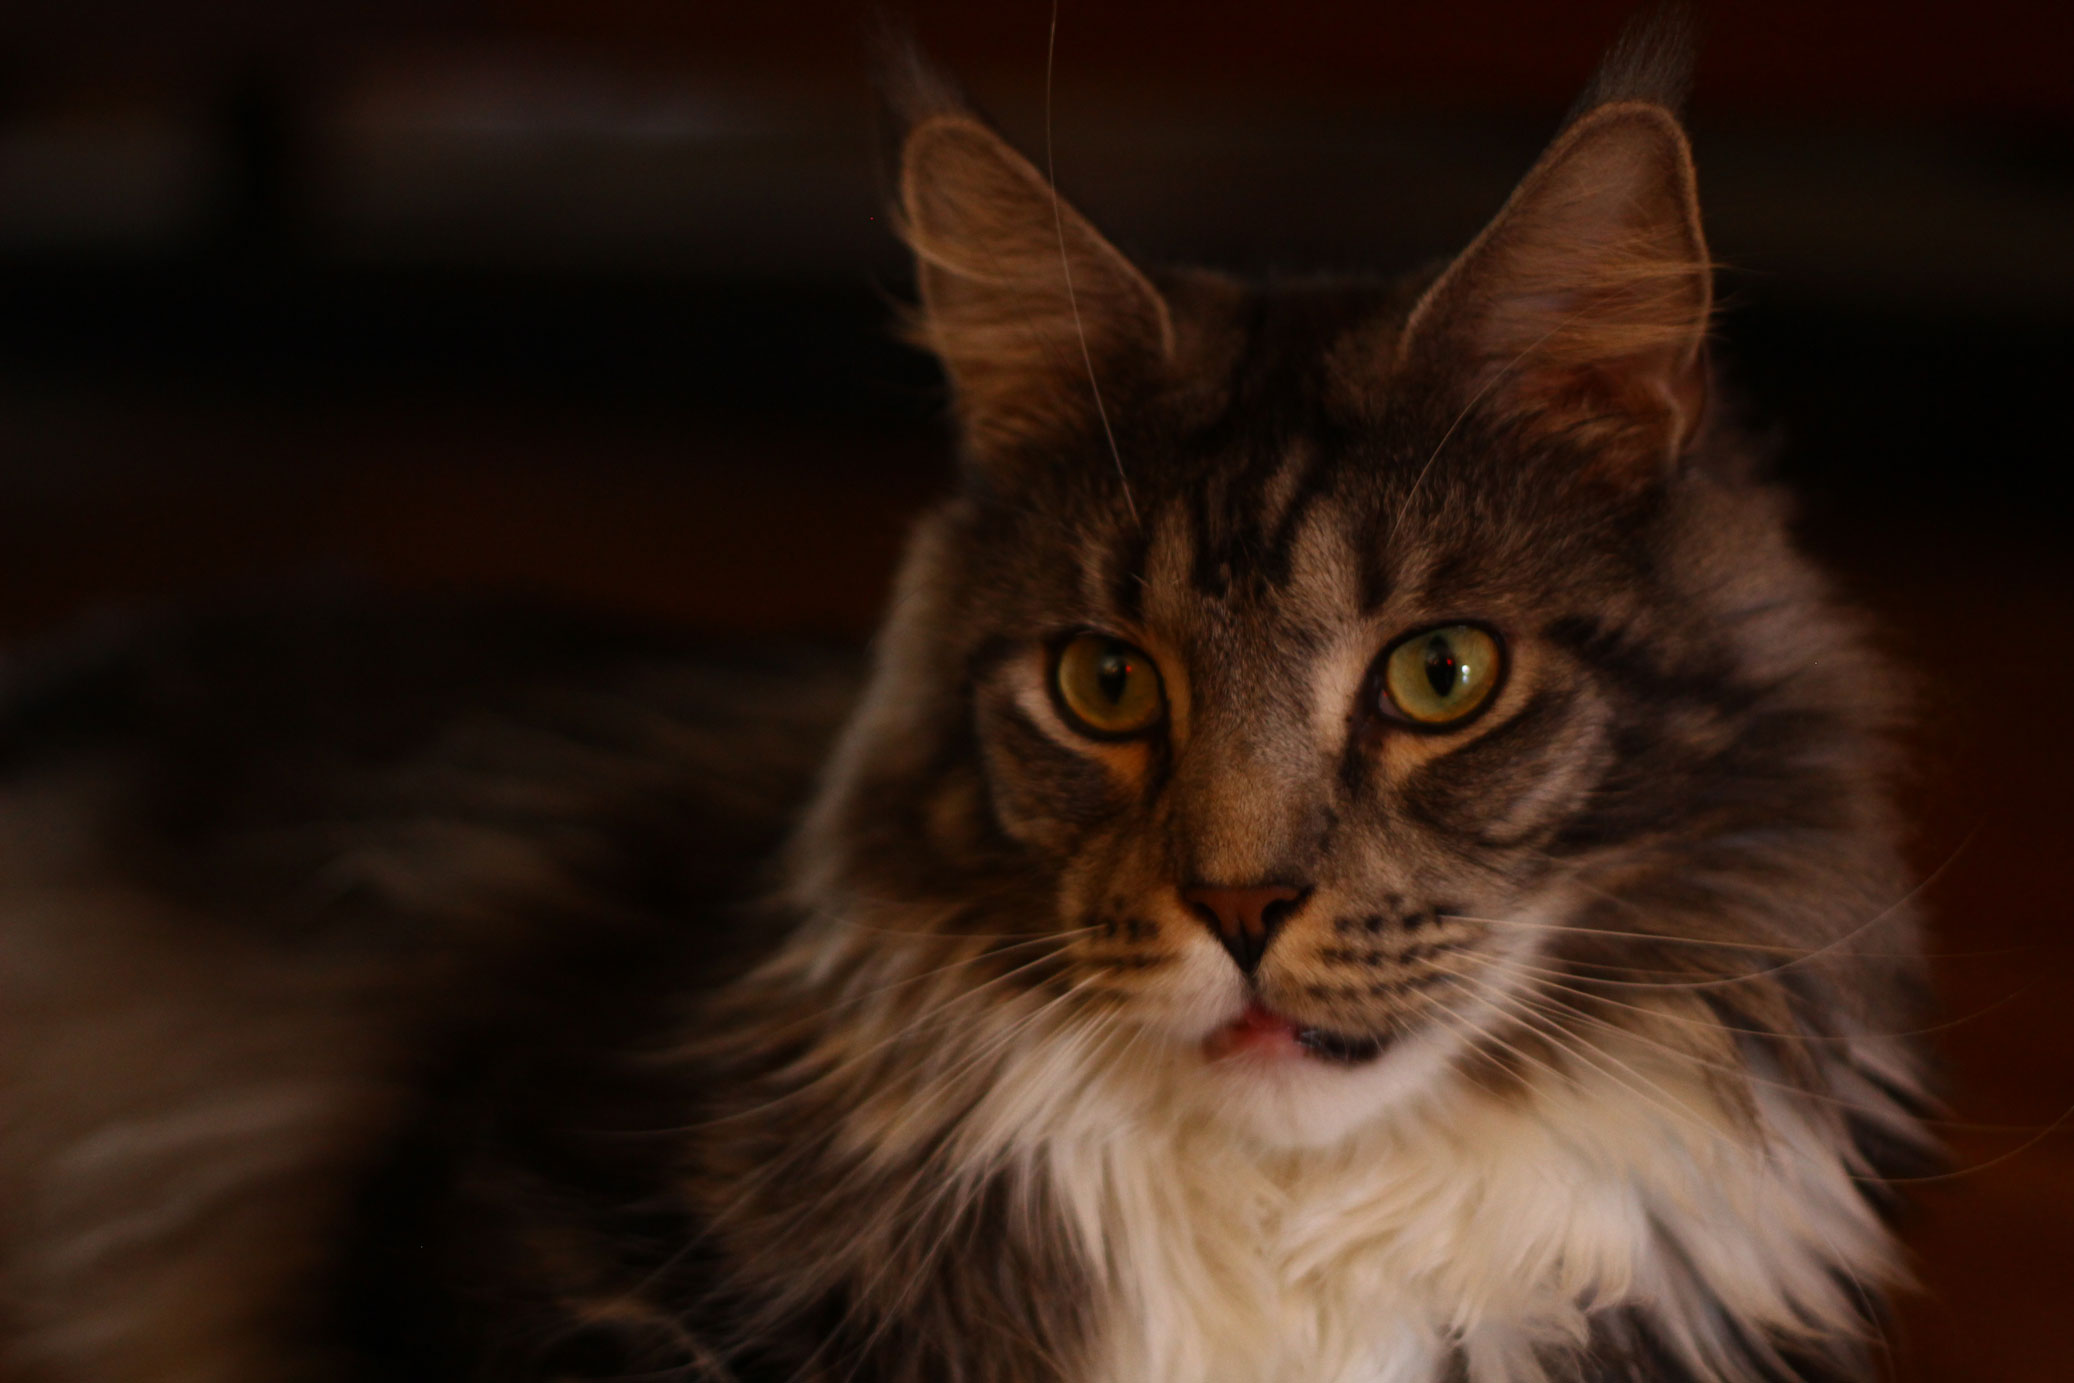
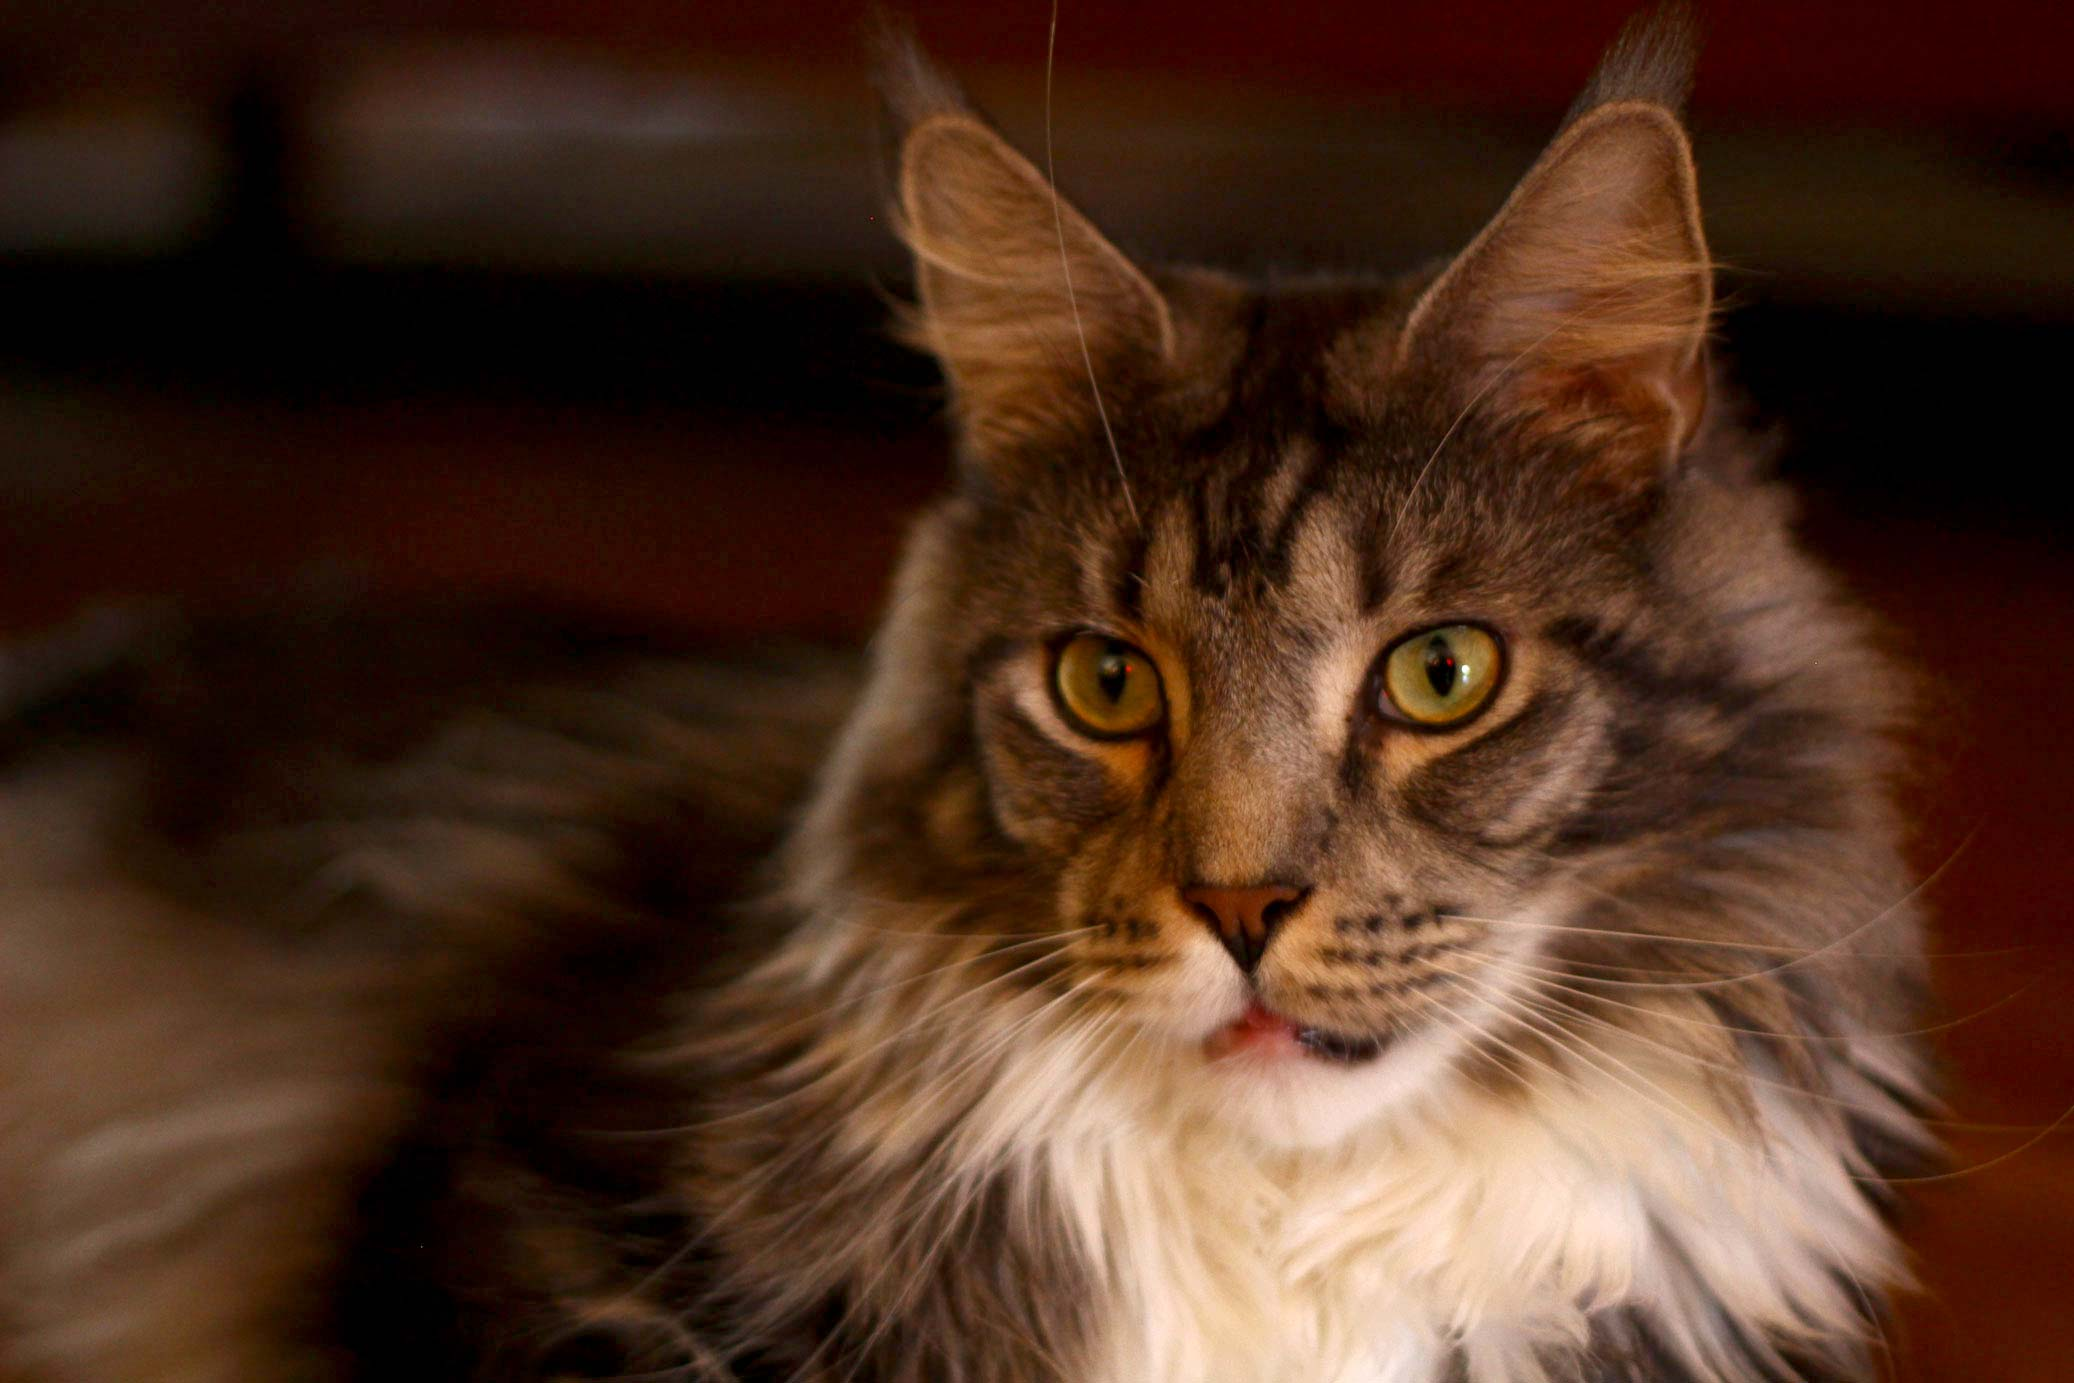
Compress & improve images

diff --git a/sourcefiles/src/components/IndexPageComponent.jsx b/sourcefiles/src/components/IndexPageComponent.jsx
@@ -15,7 +15,7 @@ export default class IndexPageComponent extends React.Component {
                 'local': false
             },
             {'title': 'Photos',
-                'imgpath': './img/photos_tn_sq.png',
+                'imgpath': './img/photos_tn_sq_2.jpg',
                 'bgpath': './img/bg_cat.jpg',
                 'url': 'https://www.flickr.com/photos/99908143@N07/',
                 'local': false
